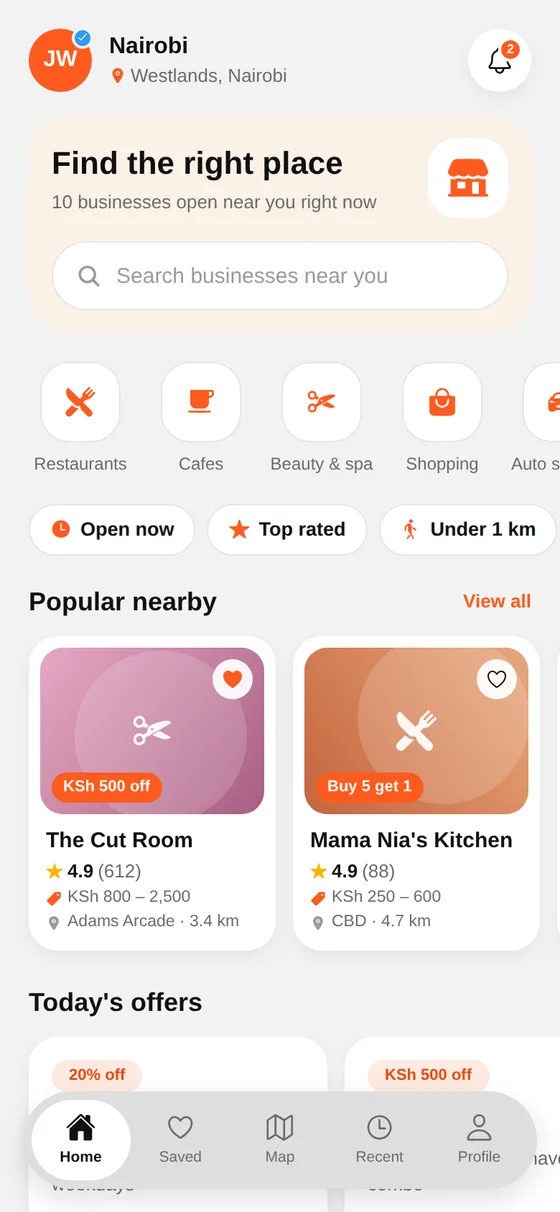
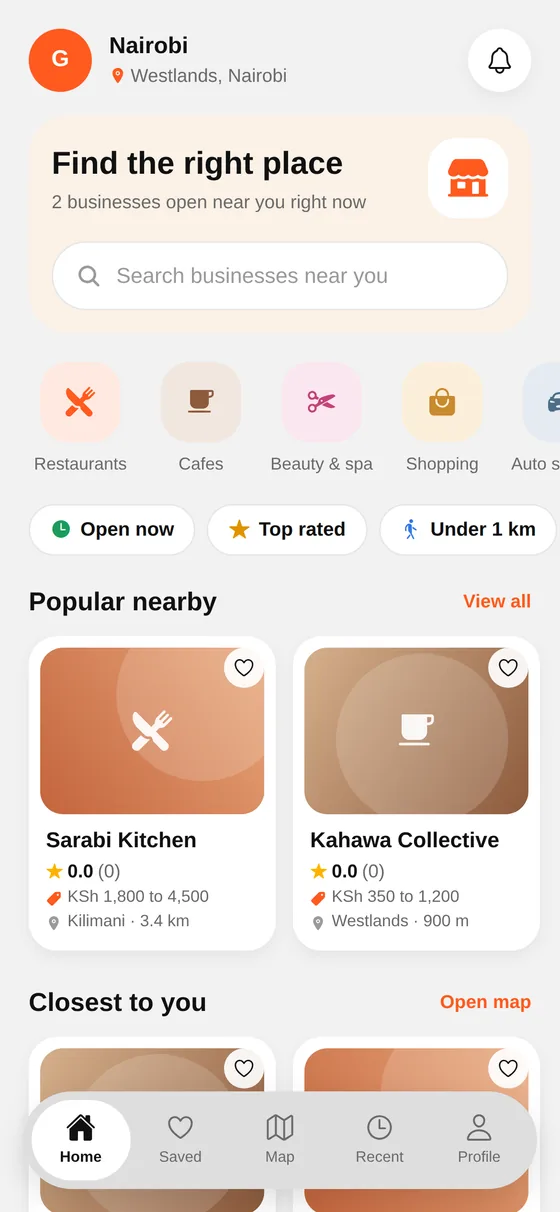
Refresh the landing screenshots, and stop nesting buttons
The screenshots on the site still showed orange category tiles and mock
listings that no longer exist. They are the real app now, with the two
seeded listings. This sandbox cannot reach the database, so the rows were
read out with the admin tooling and served to the browser directly: the
data is real, only the transport was faked.

Getting there turned up two things worth keeping.

A save heart inside a card, and map pins inside a tappable map card, both
put a button inside a button. That is invalid on the web build and
ambiguous everywhere else, because the control and the thing containing
it were two overlapping answers to "what does tapping here do". The
heart is a sibling positioned over the photo now, and a schematic map
pin stops being a button when nothing is listening for a tap.

A location permission that never answers left the app on its loading
skeletons for ever, because `ready` is what releases the first load. A
headless browser never answers the prompt, which is how this surfaced,
but a phone with a confused location service does the same thing. Both
location calls now time out into the state a refusal produces, which the
app already knew how to handle.

diff --git a/src/components/BusinessCard.tsx b/src/components/BusinessCard.tsx
@@ -18,69 +18,84 @@ type Props = {
 };
 
 export function BusinessCard({ business, onPress, saved, onToggleSave }: Props) {
+  /*
+   * The heart sits beside the card rather than inside it.
+   *
+   * Nesting one pressable in another makes a button inside a button, which is
+   * invalid on the web build and ambiguous for a screen reader everywhere: the
+   * save control and the whole card were two overlapping answers to "what does
+   * tapping here do". Absolutely positioned over the photo, it is a sibling,
+   * and the card underneath is a single target.
+   */
   return (
-    <Pressable
-      onPress={onPress}
-      accessibilityRole="button"
-      accessibilityLabel={business.name}
-      style={({ pressed }) => [styles.card, pressed && { opacity: 0.85 }]}
-    >
-      <View>
-        <Photo
-          categoryId={business.categoryId}
-          seed={business.id}
-          uri={business.photos[0]}
-          style={styles.photo}
-          radius={radii.lg}
-          iconSize={30}
-        />
-        {onToggleSave ? (
-          <Pressable
-            onPress={onToggleSave}
-            hitSlop={8}
-            accessibilityRole="button"
-            accessibilityLabel={saved ? `Remove ${business.name} from saved` : `Save ${business.name}`}
-            style={styles.heart}
-          >
-            <Ionicons
-              name={saved ? 'heart' : 'heart-outline'}
-              size={16}
-              color={saved ? colors.accent : colors.textPrimary}
-            />
-          </Pressable>
-        ) : null}
-        {business.offer ? (
-          <View style={styles.offerTag}>
-            <Text style={styles.offerText}>{business.offer.label}</Text>
-          </View>
-        ) : null}
-      </View>
+    <View style={styles.wrap}>
+      <Pressable
+        onPress={onPress}
+        accessibilityRole="button"
+        accessibilityLabel={business.name}
+        style={({ pressed }) => [styles.card, pressed && { opacity: 0.85 }]}
+      >
+        <View>
+          <Photo
+            categoryId={business.categoryId}
+            seed={business.id}
+            uri={business.photos[0]}
+            style={styles.photo}
+            radius={radii.lg}
+            iconSize={30}
+          />
+          {business.offer ? (
+            <View style={styles.offerTag}>
+              <Text style={styles.offerText}>{business.offer.label}</Text>
+            </View>
+          ) : null}
+        </View>
 
-      <View style={styles.body}>
-        <Text style={styles.name} numberOfLines={1}>
-          {business.name}
-        </Text>
-        <Stars rating={business.rating} reviewCount={business.reviewCount} size={12} compact />
-        <View style={styles.metaRow}>
-          <Ionicons name="pricetag" size={11} color={colors.accent} />
-          <Text style={styles.meta} numberOfLines={1}>
-            {formatPriceRange(business.priceFrom, business.priceTo)}
+        <View style={styles.body}>
+          <Text style={styles.name} numberOfLines={1}>
+            {business.name}
           </Text>
+          <Stars rating={business.rating} reviewCount={business.reviewCount} size={12} compact />
+          <View style={styles.metaRow}>
+            <Ionicons name="pricetag" size={11} color={colors.accent} />
+            <Text style={styles.meta} numberOfLines={1}>
+              {formatPriceRange(business.priceFrom, business.priceTo)}
+            </Text>
+          </View>
+          <View style={styles.metaRow}>
+            <Ionicons name="location" size={11} color={colors.textTertiary} />
+            <Text style={styles.meta} numberOfLines={1}>
+              {business.neighbourhood} · {formatDistance(business.distanceM)}
+            </Text>
+          </View>
         </View>
-        <View style={styles.metaRow}>
-          <Ionicons name="location" size={11} color={colors.textTertiary} />
-          <Text style={styles.meta} numberOfLines={1}>
-            {business.neighbourhood} · {formatDistance(business.distanceM)}
-          </Text>
-        </View>
-      </View>
-    </Pressable>
+      </Pressable>
+
+      {onToggleSave ? (
+        <Pressable
+          onPress={onToggleSave}
+          hitSlop={8}
+          accessibilityRole="button"
+          accessibilityLabel={
+            saved ? `Remove ${business.name} from saved` : `Save ${business.name}`
+          }
+          style={styles.heart}
+        >
+          <Ionicons
+            name={saved ? 'heart' : 'heart-outline'}
+            size={16}
+            color={saved ? colors.accent : colors.textPrimary}
+          />
+        </Pressable>
+      ) : null}
+    </View>
   );
 }
 
 BusinessCard.WIDTH = CARD_WIDTH;
 
 const styles = StyleSheet.create({
+  wrap: { width: CARD_WIDTH },
   card: {
     width: CARD_WIDTH,
     backgroundColor: colors.surface,

diff --git a/src/components/SchematicMap.tsx b/src/components/SchematicMap.tsx
@@ -80,8 +80,11 @@ export function SchematicMap({ region, markers, onSelectMarker, style }: Props) 
             return (
               <Pressable
                 key={marker.id}
-                onPress={() => onSelectMarker?.(marker.id)}
-                accessibilityRole="button"
+                onPress={onSelectMarker ? () => onSelectMarker(marker.id) : undefined}
+                // Not a button when nothing is listening. The listing screen
+                // wraps this whole map in one, and a button inside a button is
+                // invalid on the web build and ambiguous to a screen reader.
+                accessibilityRole={onSelectMarker ? 'button' : 'none'}
                 accessibilityLabel={marker.label}
                 style={[
                   styles.markerWrap,
